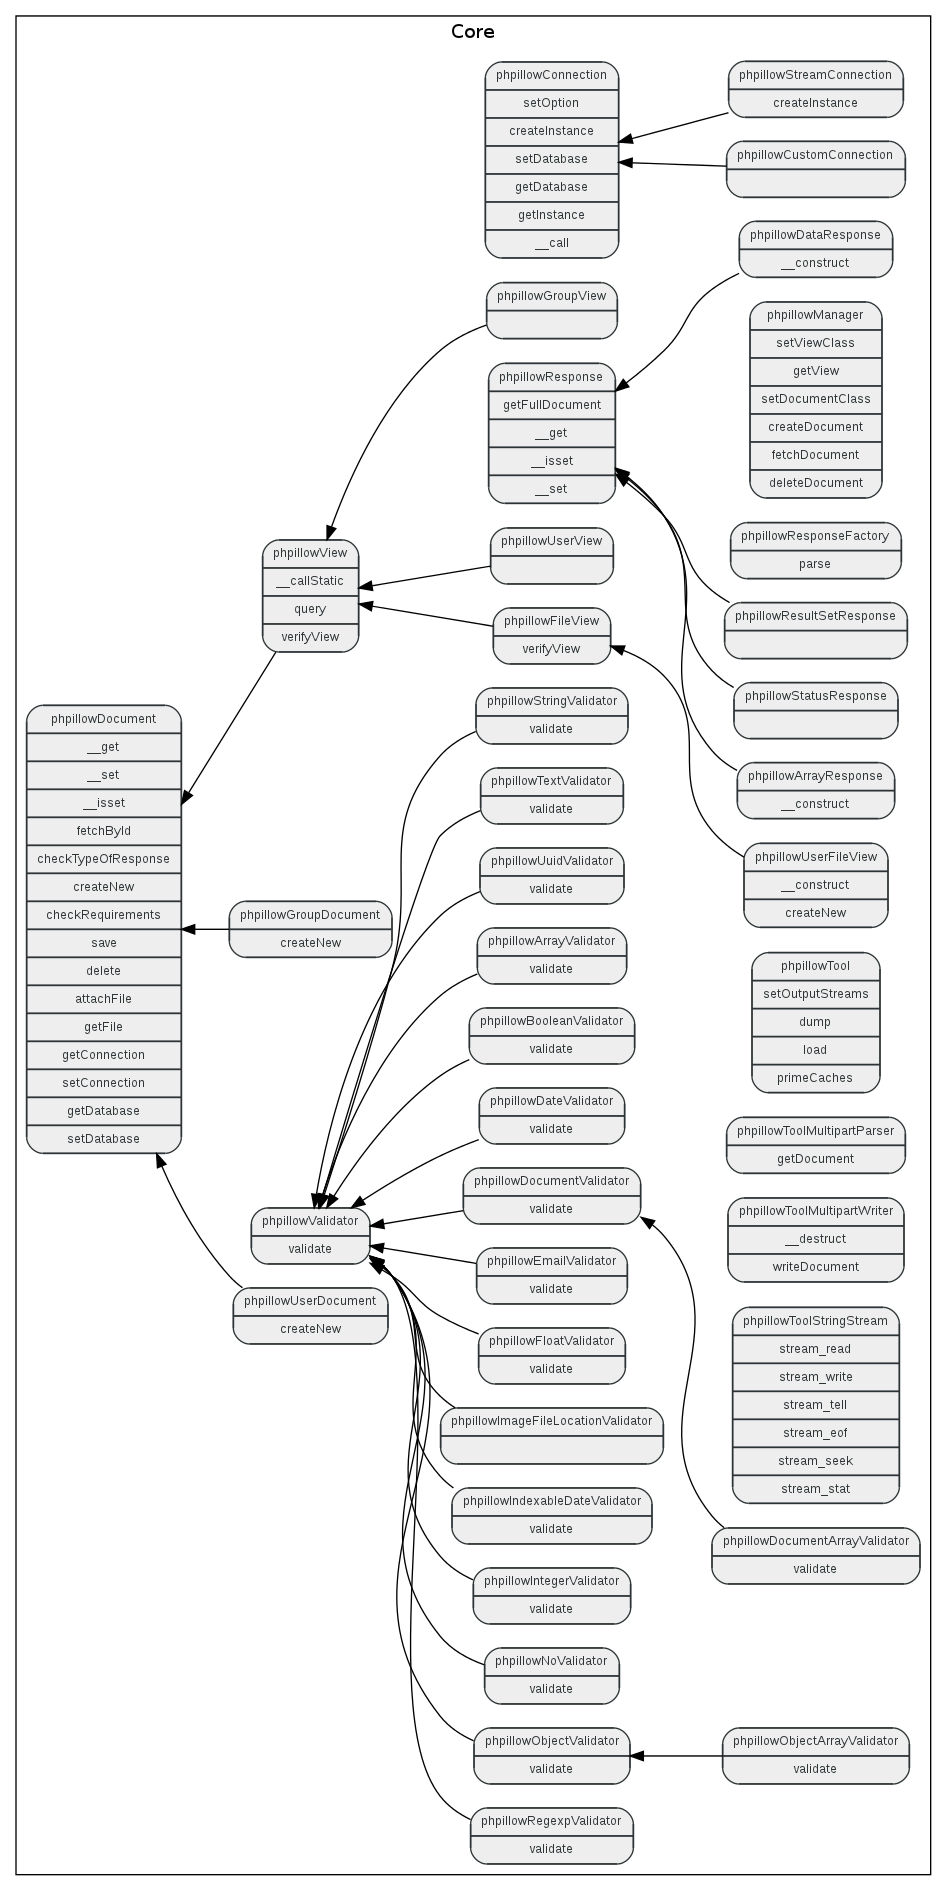
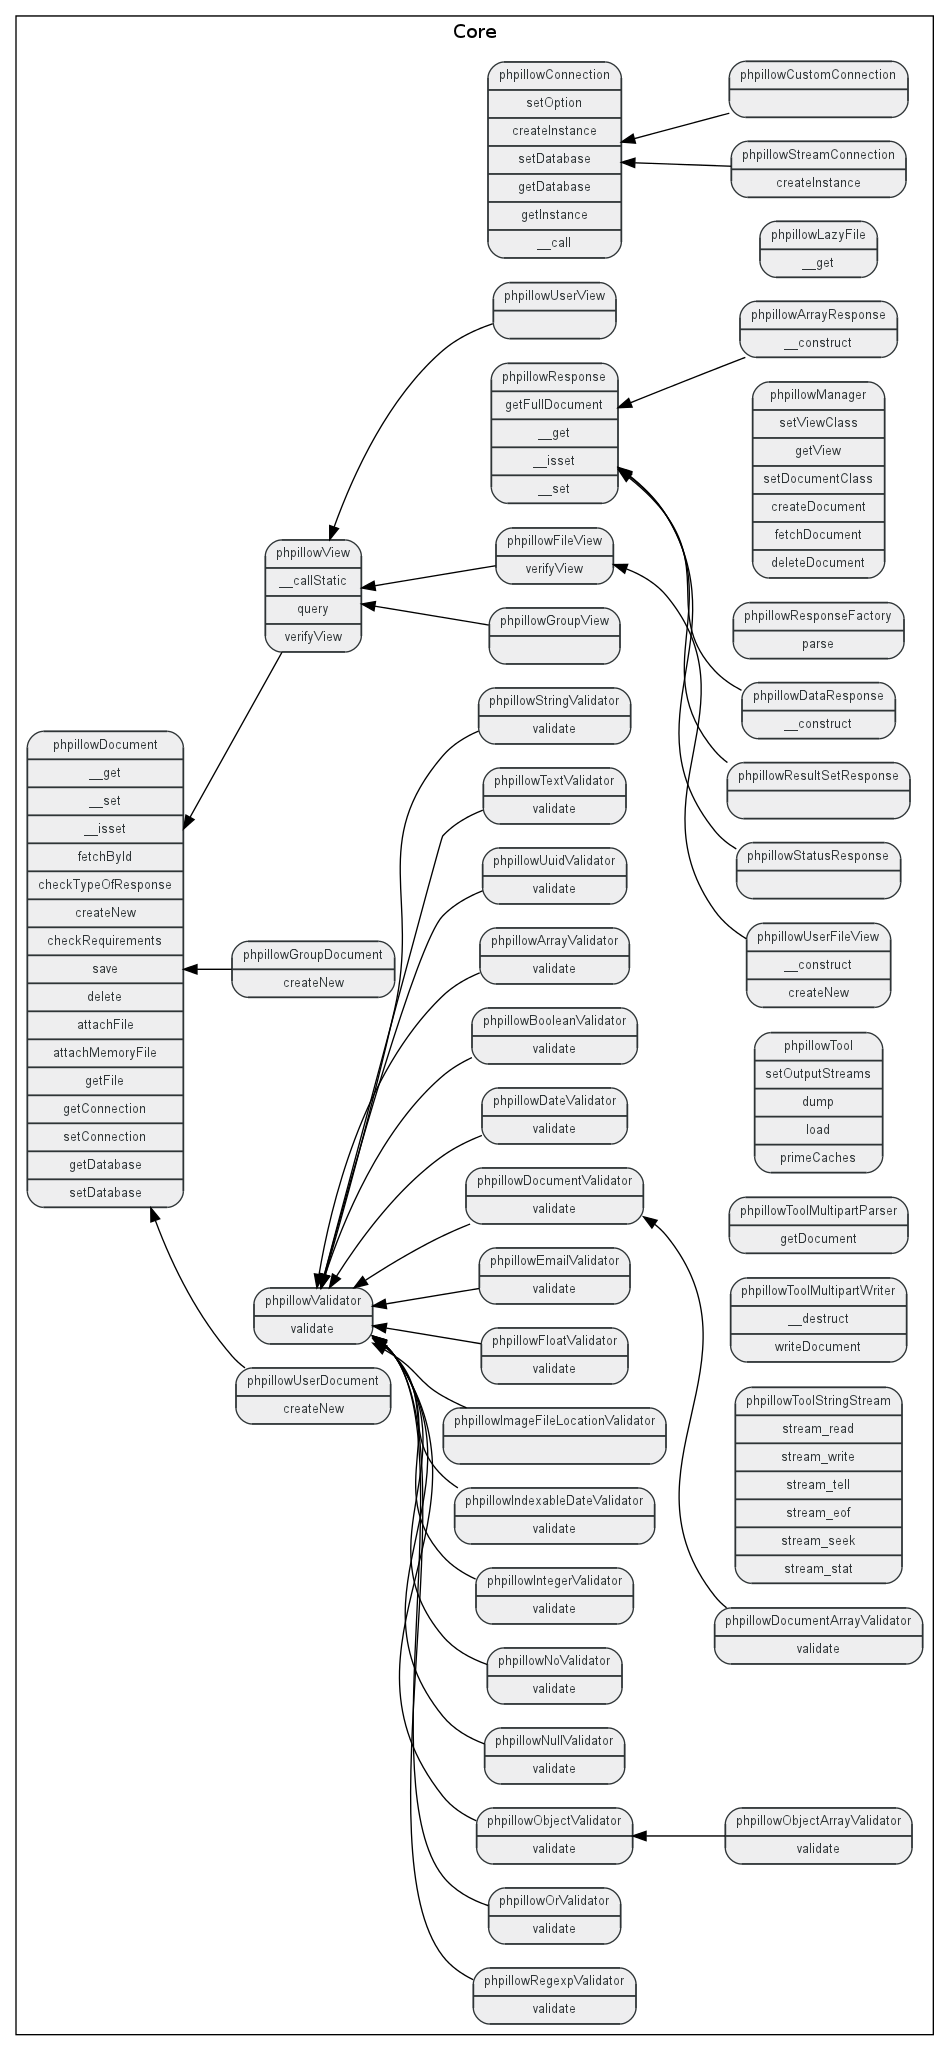
- Implemented: Lazy file attachment retrieval # This allows attachment metadata to be easily accessible, while the attachment # data itself does not need to be fetched until really needed.

diff --git a/src/classes/lazy_file.php b/src/classes/lazy_file.php
@@ -1,0 +1,131 @@
+<?php
+/**
+ * phpillow CouchDB backend
+ *
+ * This file is part of phpillow.
+ *
+ * phpillow is free software; you can redistribute it and/or modify it under
+ * the terms of the GNU Lesser General Public License as published by the Free
+ * Software Foundation; version 3 of the License.
+ *
+ * phpillow is distributed in the hope that it will be useful, but WITHOUT ANY
+ * WARRANTY; without even the implied warranty of MERCHANTABILITY or FITNESS
+ * FOR A PARTICULAR PURPOSE.  See the GNU Lesser General Public License for
+ * more details.
+ *
+ * You should have received a copy of the GNU Lesser General Public License
+ * along with phpillow; if not, write to the Free Software Foundation, Inc., 51
+ * Franklin St, Fifth Floor, Boston, MA  02110-1301  USA
+ *
+ * @package Core
+ * @version $Revision$
+ * @license http://www.gnu.org/licenses/lgpl-3.0.txt LGPL
+ */
+
+/**
+ * Class representing a file attached to a couchdb document.
+ *
+ * This class implements a lazy loading mechanism, which does only fetch the
+ * binary data of an attachment if it is really accessed.
+ *
+ * Metadata like content-type and size will accessible, without fetching the
+ * data.
+ *
+ * Once fetched the data will be cached inside the object to provide fast
+ * access.
+ *
+ * @package Core
+ * @version $Revision$
+ * @license http://www.gnu.org/licenses/lgpl-3.0.txt LGPL
+ *
+ * @property-read $data Binary data of the stored document
+ * @property-read $contentType The mimetype of the stored attachment
+ * @property-read $size Size in bytes of the stored attachment
+ */
+class phpillowLazyFile
+{
+    /**
+     * Storage for read-only properties
+     *
+     * @var array
+     */
+    protected $properties = array(
+        'data'        => null,
+        'contentType' => null,
+        'length'      => null,
+    );
+
+    /**
+     * Url which provides access to the couchdb attachment associated with this
+     * lazy file loader.
+     *
+     * @var string
+     */
+    protected $url;
+
+    /**
+     * phpillowConnection to be used for retrieving the file data if requested.
+     *
+     * @var phpillowConnection
+     */
+    protected $connection;
+
+
+    /**
+     * Construct a new lazy File loader object using a given access url,
+     * contentType and length in bytes.
+     *
+     * @param phpillowConnection $connection
+     * @param mixed $url
+     * @param mixed $contentType
+     * @param mixed $length
+     */
+    public function __construct( phpillowConnection $connection, $url, $contentType, $length )
+    {
+        $this->connection = $connection;
+        $this->url        = $url;
+
+        $this->properties['contentType'] = $contentType;
+        $this->properties['length']      = $length;
+    }
+
+    /**
+     * Automagic getter for read-only properties
+     *
+     * @param mixed $key
+     * @return mixed
+     */
+    public function __get( $key )
+    {
+        // Check if such an property exists at all
+        if ( !isset( $this->properties[$key] ) )
+        {
+            throw new phpillowNoSuchPropertyException( $key );
+        }
+
+        switch( $key )
+        {
+            case 'data':
+                if ( $this->properties['data'] === null )
+                {
+                    $this->properties['data'] = $this->fetchData();
+                }
+            default:
+                return $this->properties[$key];
+        }
+    }
+
+    /**
+     * Fetch the attachment data from the couchdb and return it
+     *
+     * @return string
+     */
+    protected function fetchData()
+    {
+        return $this->connection->get(
+            $this->url,
+            null,
+            true
+        )->data;
+    }
+}

diff --git a/src/classes/autoload.php b/src/classes/autoload.php
@@ -48,9 +48,11 @@ return array(
     'phpillowResponseNotFoundErrorException' => 'classes/exception.php',
     'phpillowResponseConflictErrorException' => 'classes/exception.php',
     'phpillowMultipartParserException'       => 'classes/exception.php',
+    'phpillowLazyFile'                       => 'classes/lazy_file.php',
     'phpillowView'                           => 'classes/view.php',
     'phpillowFileView'                       => 'classes/file_view.php',
     'phpillowUserFileView'                   => 'classes/file_view/user.php',
+    'phpillowLazyFile'                       => 'classes/lazy_file.php',
     'phpillowManager'                        => 'classes/manager.php',
     'phpillowResponseFactory'                => 'classes/response.php',
     'phpillowResponse'                       => 'classes/response/base.php',
@@ -76,8 +78,8 @@ return array(
     'phpillowNoValidator'                    => 'classes/validator/no.php',
     'phpillowNullValidator'                  => 'classes/validator/null.php',
     'phpillowObjectValidator'                => 'classes/validator/object.php',
-    'phpillowOrValidator'                    => 'classes/validator/or.php',
     'phpillowObjectArrayValidator'           => 'classes/validator/object_array.php',
+    'phpillowOrValidator'                    => 'classes/validator/or.php',
     'phpillowRegexpValidator'                => 'classes/validator/regexp.php',
     'phpillowStringValidator'                => 'classes/validator/string.php',
     'phpillowTextValidator'                  => 'classes/validator/text.php',

diff --git a/src/classes/document.php b/src/classes/document.php
@@ -639,7 +639,7 @@ abstract class phpillowDocument
      * Get the contents of an attached file as a phpillowDataResponse.
      *
      * @param string $fileName
-     * @return phpillowDataResponse
+     * @return phpillowLazyFile
      */
     public function getFile( $fileName )
     {
@@ -648,15 +648,16 @@ abstract class phpillowDocument
             throw new phpillowNoSuchPropertyException( $fileName );
         }
 
-        $db = $this->getConnection();
-        $response = $db->get(
-            $this->getDatabase() . urlencode( $this->_id ) . '/' . $fileName,
-            null, true
-        );
+        $attachment = $this->storage->_attachments[$fileName];
 
-        return $response;
+        return new phpillowLazyFile(
+            $this->getConnection(),
+            $this->getDatabase() . urlencode( $this->_id ) . '/' . $fileName,
+            $attachment['content_type'],
+            $attachment['length']
+        );
     }
-    
+
     /**
      * Return used connection
      *
